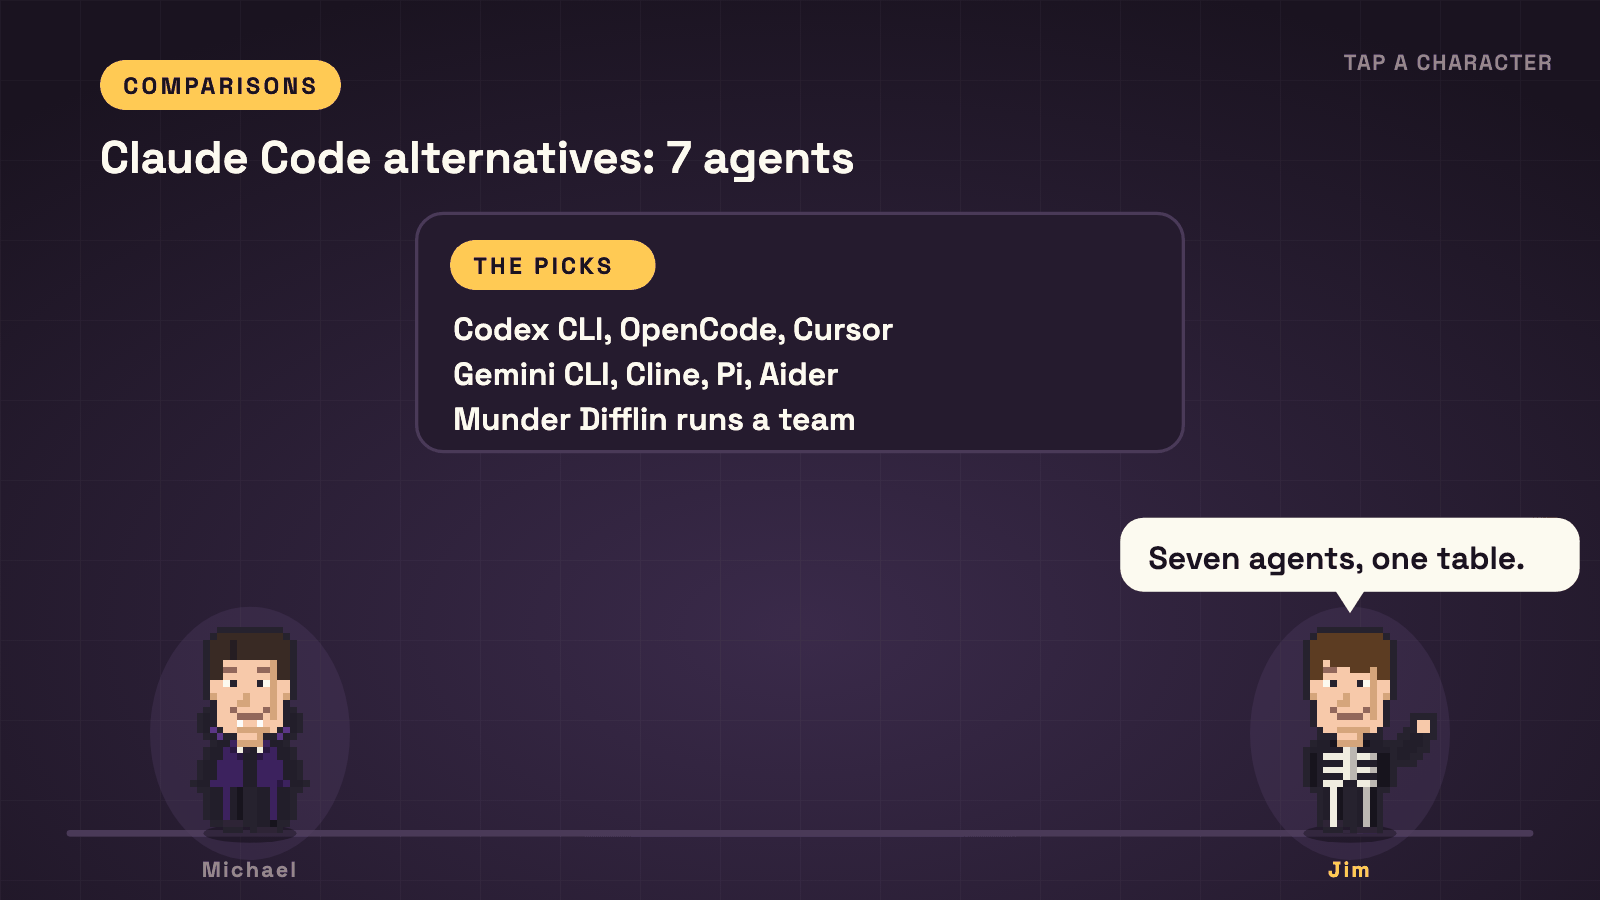
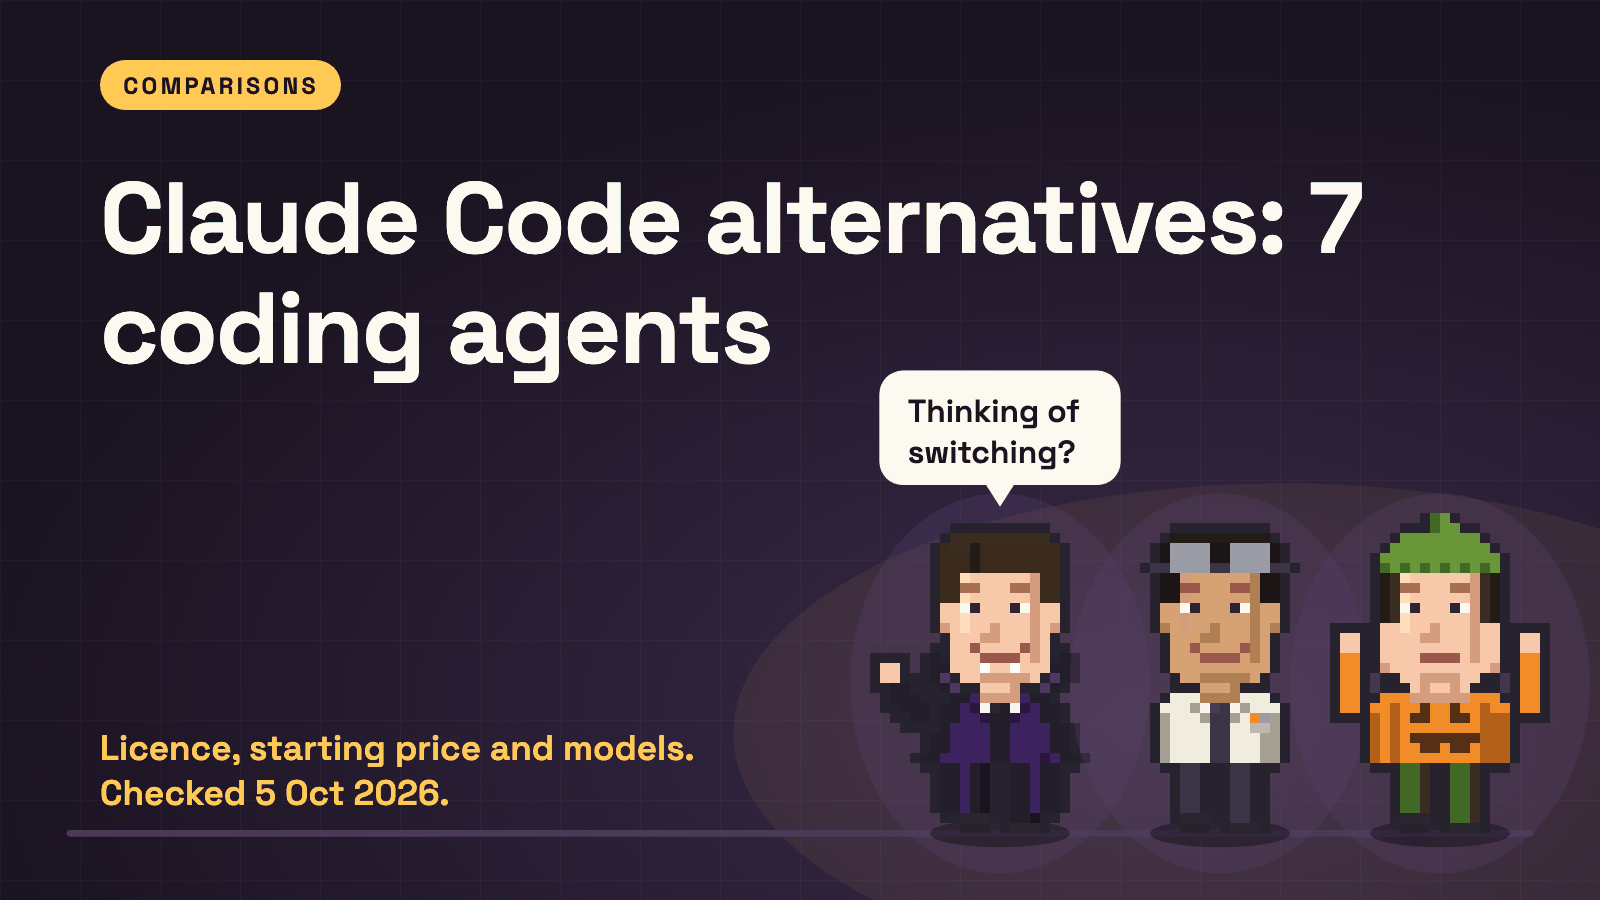
seo-engine: day 08 PM, use the kit's title scene and tall phone layout
Merges the scene kit update (tall stage under 520 px, title scene, flow labels).
Title cards now come from the kit's title scene. Stills re-rendered.

diff --git a/docs/blog/openclaw-alternatives/index.html b/docs/blog/openclaw-alternatives/index.html
@@ -179,7 +179,7 @@
     </div>
   </header>
 
-  <div class="hero-wrap wrap"><figure class="fig fig-hero"><img src="/blog/assets/media/openclaw-alternatives/hero.png" alt="Michael and Jim stand under a board that lists seven OpenClaw alternatives: Hermes Agent, Munder Difflin, NanoClaw, ZeroClaw, nanobot, Goose and Claude" loading="lazy" decoding="async" /></figure></div>
+  <div class="hero-wrap wrap"><figure class="fig fig-hero"><img src="/blog/assets/media/openclaw-alternatives/hero.png" alt="Title card. The words OpenClaw alternatives: 7 picks, with Michael and Jim from the office cast standing beside them" loading="lazy" decoding="async" /></figure></div>
 
   <div class="post-wrap wrap">
     <div class="prose">
@@ -278,7 +278,7 @@
 <p>Licences come from each repo, checked on 5 Oct 2026. The Claude price is from <a href="https://claude.com/pricing">claude.com/pricing</a> on the same day.</p>
 <h2 id="what-is-the-best-openclaw-alternative" tabindex="-1">What is the best OpenClaw alternative? <a class="anchor" href="#what-is-the-best-openclaw-alternative" aria-hidden="true">#</a></h2>
 <p>Hermes Agent, for most people who liked what OpenClaw does. It does the same job under the same licence, and it is the only pick here whose README documents an import from <code>~/.openclaw</code>.</p>
-<figure class="mg" data-scene="compare"><img src="/blog/assets/media/openclaw-alternatives/versus.png" width="1600" height="900" loading="lazy" decoding="async" alt="Animation. A table compares OpenClaw and Hermes Agent on licence, GitHub stars, latest release, chat apps and switching, then Oscar gives the verdict."><script type="application/json">{"kicker":"Checked 5 Oct 2026","title":"OpenClaw against Hermes Agent","cols":["OpenClaw","Hermes Agent"],"pick":1,"rows":[{"label":"Licence","a":"MIT","b":"MIT","win":"","note":"A tie. Both repos are MIT licensed."},{"label":"GitHub stars","a":"391,425","b":"251,363","win":"a","note":"Read on GitHub, 5 Oct 2026."},{"label":"Latest release","a":"v2026.9.8, 3 Oct","b":"v2026.9.24, 24 Sep","win":"","note":"Both shipped a release in the last two weeks."},{"label":"Chat apps in README","a":"6 named, 20+ more","b":"5 named, plus CLI","win":"a","note":"Counted from each README's headline list."},{"label":"Switching","a":"You are here","b":"hermes claw migrate","win":"b","note":"Add --dry-run to preview the import."}],"host":"oscar","say":"Hermes is the closest swap."}</script><figcaption>OpenClaw is the bigger project. Hermes Agent is the easiest move.</figcaption></figure>
+<figure class="mg" data-scene="compare"><img src="/blog/assets/media/openclaw-alternatives/versus.png" width="1600" height="900" loading="lazy" decoding="async" alt="Animation. A table compares OpenClaw and Hermes Agent on licence, GitHub stars, latest release, chat apps and switching, then Oscar gives the verdict."><script type="application/json">{"kicker":"Checked 5 Oct 2026","title":"OpenClaw against Hermes Agent","cols":["OpenClaw","Hermes Agent"],"pick":1,"rows":[{"label":"Licence","a":"MIT","b":"MIT","win":"","note":"A tie. Both repos are MIT licensed."},{"label":"GitHub stars","a":"391,425","b":"251,363","win":"a","note":"Read on GitHub, 5 Oct 2026."},{"label":"Latest release","a":"v2026.9.8, 3 Oct","b":"v2026.9.24, 24 Sep","win":"","note":"Both shipped a release in the last two weeks."},{"label":"Chat apps in README","a":"6 named, 20+ more","b":"5 named, plus CLI","win":"a","note":"Counted from each README's headline list."},{"label":"Switching","a":"You are here","b":"Has an importer","win":"b","note":"Add --dry-run to preview the import."}],"host":"oscar","say":"Hermes is the closest swap."}</script><figcaption>OpenClaw is the bigger project. Hermes Agent is the easiest move.</figcaption></figure>
 <p>OpenClaw still wins on size and reach: more stars, more channels, and native apps for macOS, iOS, Android, Windows and Linux. If none of the three reasons above bothers you, stay. That is a fair outcome for a list like this.</p>
 <h2 id="is-there-a-free-openclaw-alternative" tabindex="-1">Is there a free OpenClaw alternative? <a class="anchor" href="#is-there-a-free-openclaw-alternative" aria-hidden="true">#</a></h2>
 <p>Yes: six of the seven are free and open source, and so is OpenClaw. The software costs nothing. The model does, unless you run a local one or reuse a plan you already pay for. Goose, for example, can use an existing Claude, ChatGPT or Gemini subscription.</p>

diff --git a/docs/blog/how-to-use-claude-code/index.html b/docs/blog/how-to-use-claude-code/index.html
@@ -35,7 +35,7 @@
 <meta property="og:image" content="https://munderdiffl.in/blog/assets/media/how-to-use-claude-code/hero.png" />
 <meta property="og:image:width" content="1600" />
 <meta property="og:image:height" content="900" />
-<meta property="og:image:alt" content="Michael and Jim stand under a board with the path of this guide: install and sign in, run a first task, learn the commands that matter" />
+<meta property="og:image:alt" content="Title card. The words How to use Claude Code, with Michael and Pam from the office cast standing beside them" />
 <meta property="og:locale" content="en_US" />
 <meta property="article:published_time" content="2026-10-05T00:00:00.000Z" />
 <meta property="article:author" content="Chaitanya Giri" />
@@ -49,7 +49,7 @@
 <meta name="twitter:title" content="How to Use Claude Code: Setup, First Task and the Commands That Matter — Munder Difflin Blog" />
 <meta name="twitter:description" content="How to use Claude Code, checked 5 Oct 2026: install it, sign in, run a first task, then the commands, shortcuts and habits a beginner needs." />
 <meta name="twitter:image" content="https://munderdiffl.in/blog/assets/media/how-to-use-claude-code/hero.png" />
-<meta name="twitter:image:alt" content="Michael and Jim stand under a board with the path of this guide: install and sign in, run a first task, learn the commands that matter" />
+<meta name="twitter:image:alt" content="Title card. The words How to use Claude Code, with Michael and Pam from the office cast standing beside them" />
 
 <link rel="alternate" type="application/atom+xml" title="Munder Difflin Blog" href="https://munderdiffl.in/blog/feed.xml" />
 <link rel="preconnect" href="https://fonts.googleapis.com" />
@@ -182,7 +182,7 @@
     </div>
   </header>
 
-  <div class="hero-wrap wrap"><figure class="fig fig-hero"><img src="/blog/assets/media/how-to-use-claude-code/hero.png" alt="Michael and Jim stand under a board with the path of this guide: install and sign in, run a first task, learn the commands that matter" loading="lazy" decoding="async" /></figure></div>
+  <div class="hero-wrap wrap"><figure class="fig fig-hero"><img src="/blog/assets/media/how-to-use-claude-code/hero.png" alt="Title card. The words How to use Claude Code, with Michael and Pam from the office cast standing beside them" loading="lazy" decoding="async" /></figure></div>
 
   <div class="post-wrap wrap">
     <div class="prose">

diff --git a/docs/blog/claude-code-alternatives/index.html b/docs/blog/claude-code-alternatives/index.html
@@ -180,7 +180,7 @@
     </div>
   </header>
 
-  <div class="hero-wrap wrap"><figure class="fig fig-hero"><img src="/blog/assets/media/claude-code-alternatives/hero.png" alt="Michael and Jim stand under a board that lists Claude Code alternatives: Codex CLI, OpenCode, Cursor, Gemini CLI, Cline, Pi and Aider, with a last line that reads Munder Difflin runs a team" loading="lazy" decoding="async" /></figure></div>
+  <div class="hero-wrap wrap"><figure class="fig fig-hero"><img src="/blog/assets/media/claude-code-alternatives/hero.png" alt="Title card. The words Claude Code alternatives: 7 coding agents, with Michael, Oscar and Kevin from the office cast standing beside them" loading="lazy" decoding="async" /></figure></div>
 
   <div class="post-wrap wrap">
     <div class="prose">

diff --git a/blog/src/posts/openclaw-alternatives.md b/blog/src/posts/openclaw-alternatives.md
@@ -77,7 +77,7 @@ Licences come from each repo, checked on 5 Oct 2026. The Claude price is from [c
 
 Hermes Agent, for most people who liked what OpenClaw does. It does the same job under the same licence, and it is the only pick here whose README documents an import from `~/.openclaw`.
 
-<figure class="mg" data-scene="compare"><img src="/blog/assets/media/openclaw-alternatives/versus.png" width="1600" height="900" loading="lazy" decoding="async" alt="Animation. A table compares OpenClaw and Hermes Agent on licence, GitHub stars, latest release, chat apps and switching, then Oscar gives the verdict."><script type="application/json">{"kicker":"Checked 5 Oct 2026","title":"OpenClaw against Hermes Agent","cols":["OpenClaw","Hermes Agent"],"pick":1,"rows":[{"label":"Licence","a":"MIT","b":"MIT","win":"","note":"A tie. Both repos are MIT licensed."},{"label":"GitHub stars","a":"391,425","b":"251,363","win":"a","note":"Read on GitHub, 5 Oct 2026."},{"label":"Latest release","a":"v2026.9.8, 3 Oct","b":"v2026.9.24, 24 Sep","win":"","note":"Both shipped a release in the last two weeks."},{"label":"Chat apps in README","a":"6 named, 20+ more","b":"5 named, plus CLI","win":"a","note":"Counted from each README's headline list."},{"label":"Switching","a":"You are here","b":"hermes claw migrate","win":"b","note":"Add --dry-run to preview the import."}],"host":"oscar","say":"Hermes is the closest swap."}</script><figcaption>OpenClaw is the bigger project. Hermes Agent is the easiest move.</figcaption></figure>
+<figure class="mg" data-scene="compare"><img src="/blog/assets/media/openclaw-alternatives/versus.png" width="1600" height="900" loading="lazy" decoding="async" alt="Animation. A table compares OpenClaw and Hermes Agent on licence, GitHub stars, latest release, chat apps and switching, then Oscar gives the verdict."><script type="application/json">{"kicker":"Checked 5 Oct 2026","title":"OpenClaw against Hermes Agent","cols":["OpenClaw","Hermes Agent"],"pick":1,"rows":[{"label":"Licence","a":"MIT","b":"MIT","win":"","note":"A tie. Both repos are MIT licensed."},{"label":"GitHub stars","a":"391,425","b":"251,363","win":"a","note":"Read on GitHub, 5 Oct 2026."},{"label":"Latest release","a":"v2026.9.8, 3 Oct","b":"v2026.9.24, 24 Sep","win":"","note":"Both shipped a release in the last two weeks."},{"label":"Chat apps in README","a":"6 named, 20+ more","b":"5 named, plus CLI","win":"a","note":"Counted from each README's headline list."},{"label":"Switching","a":"You are here","b":"Has an importer","win":"b","note":"Add --dry-run to preview the import."}],"host":"oscar","say":"Hermes is the closest swap."}</script><figcaption>OpenClaw is the bigger project. Hermes Agent is the easiest move.</figcaption></figure>
 
 OpenClaw still wins on size and reach: more stars, more channels, and native apps for macOS, iOS, Android, Windows and Linux. If none of the three reasons above bothers you, stay. That is a fair outcome for a list like this.
 
